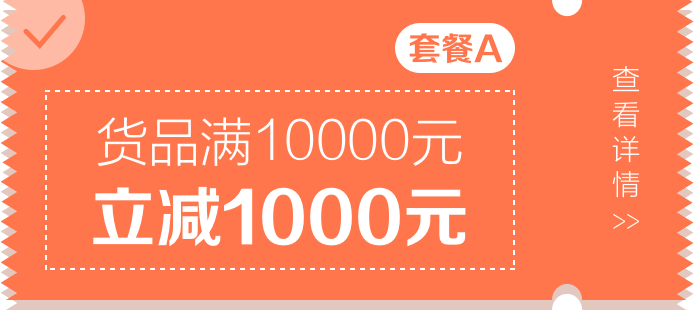
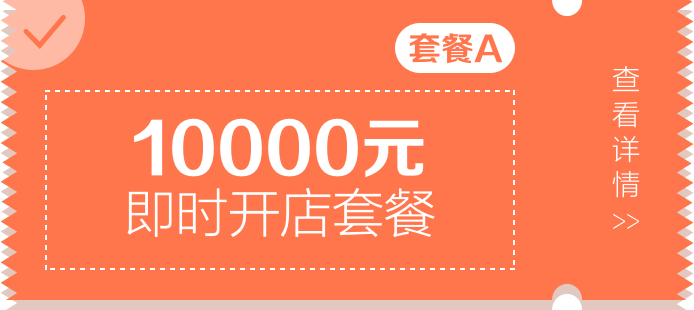
remove coupon

Changed region(s): [[0.121, 0.6097, 0.696, 0.8129], [0.121, 0.3774, 0.6657, 0.5806]]

diff --git a/scripts/detail.js b/scripts/detail.js
@@ -188,7 +188,8 @@ $(function() {
 
 		var totalFee = data.totalFee,
 				coupon = data.coupon;
-		$('.result .pull-right').html('￥' + totalFee.toFixed(2) + ' - ' + '￥' + coupon.toFixed(2) + ' = <em>￥'  + (totalFee - coupon).toFixed(2) + '</em>');
+		// $('.result .pull-right').html('￥' + totalFee.toFixed(2) + ' - ' + '￥' + coupon.toFixed(2) + ' = <em>￥'  + (totalFee - coupon).toFixed(2) + '</em>');
+		$('.result .pull-right').html('<em>￥'  + totalFee.toFixed(2) + '</em>');
 
 		eventInit();
 	};

diff --git a/scripts/index.js b/scripts/index.js
@@ -1,7 +1,7 @@
 $(function() {
 	var utils = new Utils(),
 			search = utils.getSearch(),
-			zjtoken = search.zjtoken, //'64C8B923-8ABE-42CE-ABF5-AEBACDA09DF3-75022-00009F62C13819AC`AATmZNU1hZX/rUCJTc2o4Z5bMbj9Ab7I`1'
+			zjtoken = search.zjtoken, //'64C8B923-8ABE-42CE-ABF5-AEBACDA09DF3-75022-00009F62C13819AC`AATmZNU1hZX/rUCJTc2o4Z5bMbj9Ab7I`1',
 			store_id = search.store_id, // 7,
 			headers = {
 				'Content-Type': 'application/json',

diff --git a/scripts/package.js b/scripts/package.js
@@ -14,8 +14,8 @@ $(function() {
 						var data = data.data.productInfo;
 						var packageA = dataFormatter(data[0].productList);
 						var packageB = dataFormatter(data[1].productList);
-						packageA.coupon = 1000;
-						packageB.coupon = 1500;
+						// packageA.coupon = 1000;
+						// packageB.coupon = 1500;
 						packageA.subject = '套餐A';
 						packageB.subject = '套餐B';
 						packageA.productId = data[0].productId;

diff --git a/scripts/address.js b/scripts/address.js
@@ -98,7 +98,8 @@ $(function() {
 					doPay({
 						orderId: data.orderId,
 						subject: packageData.subject,
-						totalFee: packageData.totalFee - packageData.coupon
+						totalFee: packageData.totalFee
+						// totalFee: packageData.totalFee - packageData.coupon
 					});
 				} else {
 

diff --git a/styles/loading.css b/styles/loading.css
@@ -4,7 +4,7 @@
 	position: absolute;
 	top: 0;
 	left: 0;
-	background: rgba(0,0,0,.1);
+	background: rgba(0,0,0,.5);
 	z-index: 1000;
 	display: none;
 }
